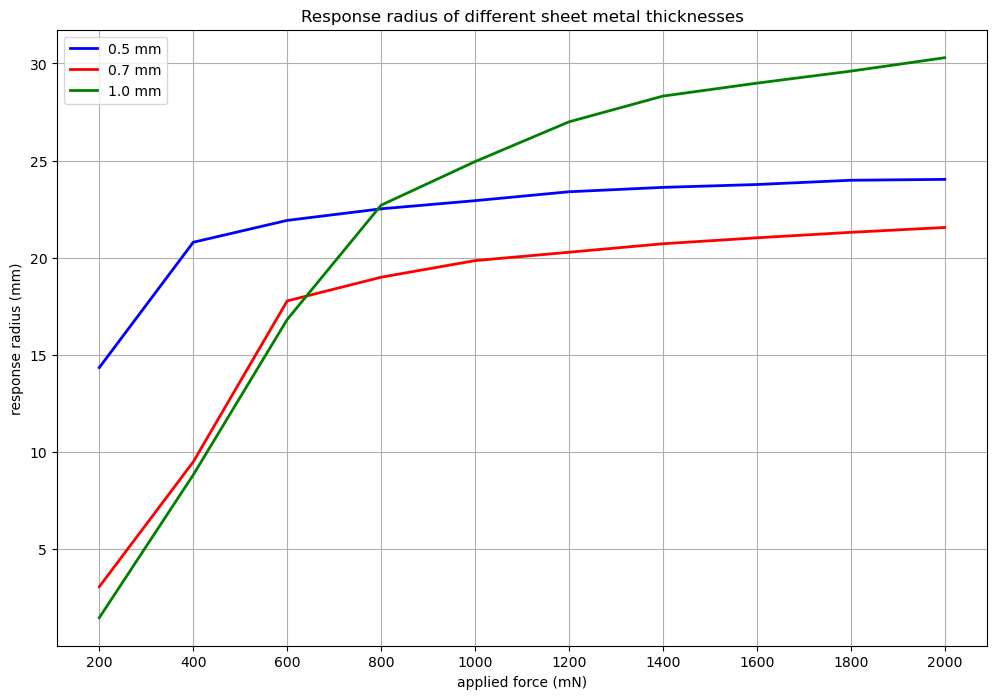
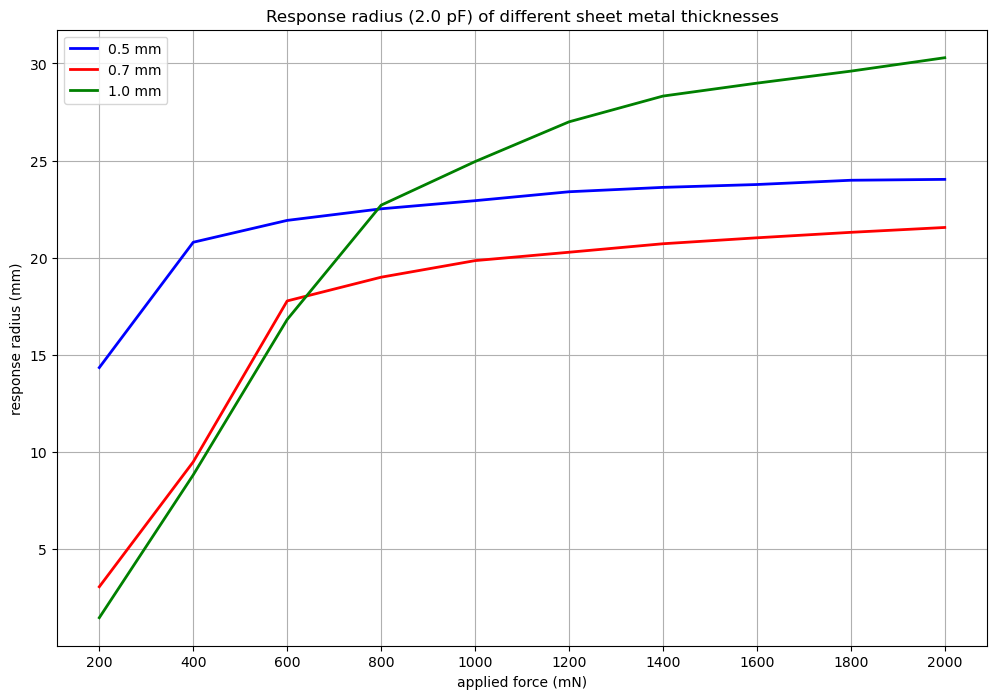
change title of plot

Changed region(s): [[0.2487, 0.0, 0.7773, 0.03]]

diff --git a/software/calculations/capacitance_radius.py b/software/calculations/capacitance_radius.py
@@ -171,12 +171,12 @@ def plot_radius_curves():
             pass
 
     pyplot.legend()
-    pyplot.title("Response radius of different sheet metal thicknesses")
+    pyplot.title("Response radius (2.0 pF) of different sheet metal thicknesses")
     pyplot.xlabel("applied force (mN)")
     pyplot.xticks(forces)
     pyplot.ylabel("response radius (mm)")
     pyplot.grid()
-    
+
     pyplot.savefig('plots/response_radius.png', bbox_inches='tight')
     pyplot.show()
             
